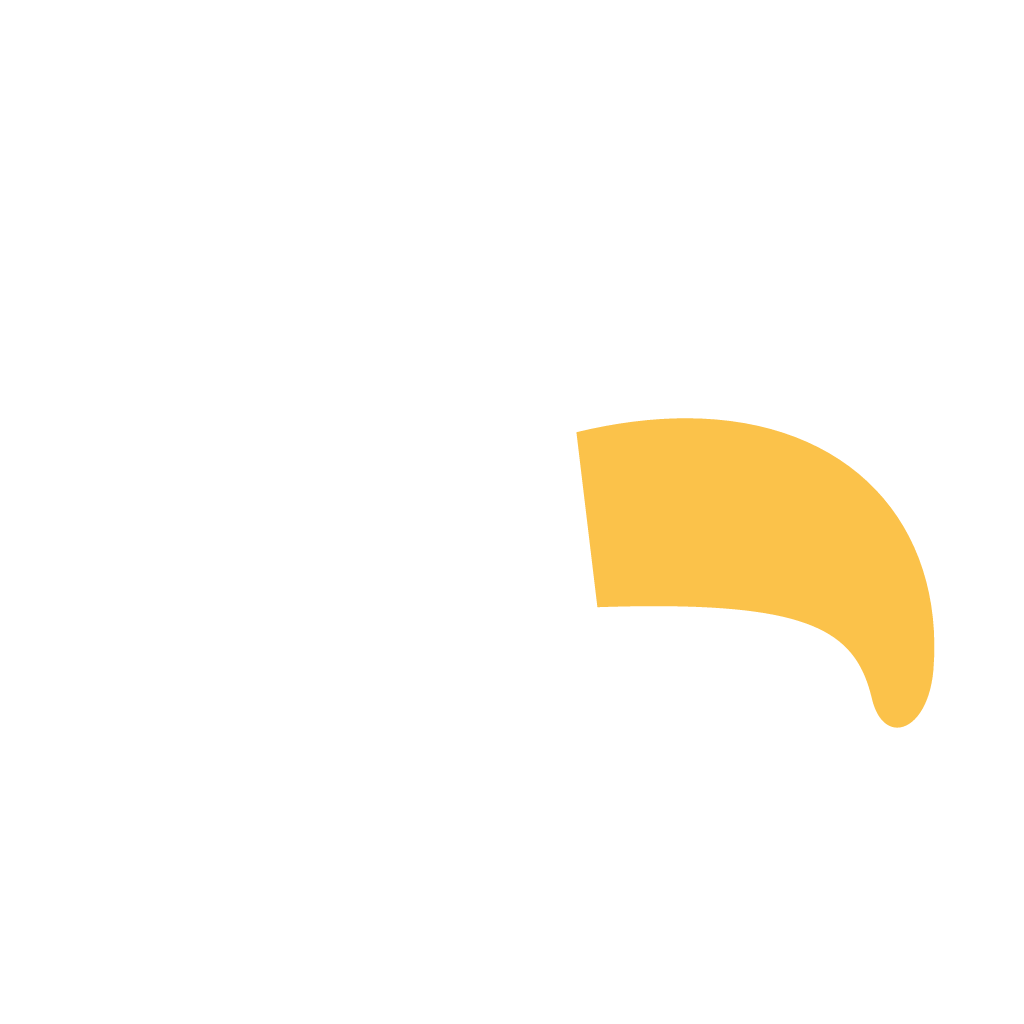
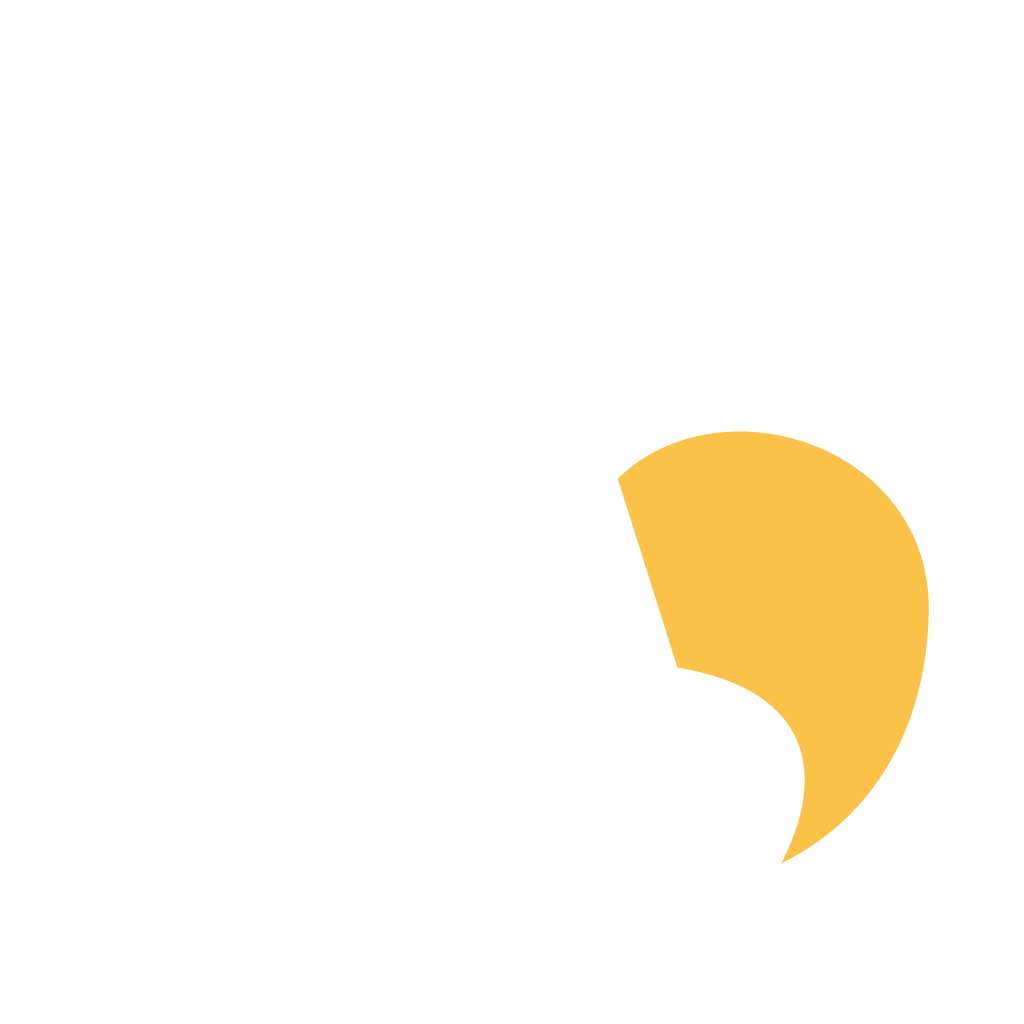
Redraw the parrot as a cockatoo with a hooked beak so it no longer reads as a crow
The long straight beak becomes a shorter, larger hook whose tip points down
over an arched lower beak; the crest is three long thin feathers; the motif
fills more of the app icon. The menu bar glyph is one solid silhouette with
a plain round eye.

diff --git a/design/logo/perroquet.py b/design/logo/perroquet.py
@@ -40,33 +40,46 @@ ICTOOL = "/Applications/Xcode.app/Contents/Applications/Icon Composer.app/Conten
 BLUE, GREEN, YELLOW, WHITE = "#2F80ED", "#3DD17A", "#FFC83D", "#FFFFFF"
 
 # The parrot is drawn in its own coordinates, then scaled and centred on the 1024 canvas.
-# MOTIF_CENTRE is the centre of the bounding box of every layer (crest, head, beaks).
-MOTIF_CENTRE = (419, 432)
-MOTIF_SCALE = 1.4
-EYE_CENTRE = (465, 448)
+# MOTIF_CENTRE is the centre of the bounding box of every layer (crest, head, beaks):
+# x 141-728, y 95-710. MOTIF_SCALE makes it about 870 px tall, filling most of the icon.
+MOTIF_CENTRE = (434.5, 402.5)
+MOTIF_SCALE = 1.42
+HEAD_CENTRE, HEAD_RADIUS = (360, 500), 210
+EYE_CENTRE = (432, 440)
 
-# Crest: one feather repeated three times. The tips sit on one arc (centred on
-# CREST_PIVOT, through the yellow tip), CREST_STEP degrees apart; each feather leans back
-# by CREST_LEAN of that angle, so the visible overlaps are about equal (132 vs 165 px).
-FEATHER = "M320 355 C305 250, 365 150, 450 155 C410 222.5, 400 300, 415 350 Z"
-FEATHER_TIP = (450, 155)
-CREST_PIVOT = (401, 399)
-CREST_STEP = -27  # degrees along the arc between two tips
-CREST_LEAN = 0.55
+# Short upper beak whose tip hooks down over the lower one: the hook is what tells a
+# parrot from a crow, whose beak is long and straight. It starts inside the head, so no
+# corner of background shows between the head and the top of the beak. The lower beak
+# fills the inside of the hook up to its tip (a gap there is too small to read), and its
+# underside arches up between the head and the tip, so the hook points down clearly.
+UPPER_BEAK = (
+    "M509 379 C582 308, 731 356, 728 474 C726 555, 689 618, 624 650 "
+    "C656 589, 647 528, 551 512 Z"
+)
+LOWER_BEAK = (
+    "M512 498 C610 490, 672 560, 662 610 C658 632, 640 648, 624 652 "
+    "C612 628, 596 612, 576 612 C552 612, 528 632, 498 652 Z"
+)
+
+# Crest of a cockatoo: one long thin feather (base at the origin, tip curling forward),
+# repeated three times. The bases sit on a circle inside the head, CREST_STEP degrees apart
+# going backwards from the top, and each feather leans back by that same angle.
+FEATHER = "M0 0 C-4 -14, 0 -30, 14 -36 C8 -26, 8 -14, 10 0 Z"
+FEATHER_SCALE = 5.95
+CREST_ROOT_RADIUS = 184
+CREST_START = -86  # degrees, the front feather, nearly straight up
+CREST_STEP = 22
 
 
 def crest() -> str:
     """Return the three overlapping crest feathers, back to front."""
-    px, py = CREST_PIVOT
-    tx, ty = FEATHER_TIP
-    radius = math.dist(CREST_PIVOT, FEATHER_TIP)
-    start = math.degrees(math.atan2(ty - py, tx - px))
+    hx, hy = HEAD_CENTRE
     paths = []
     for i, colour in enumerate((YELLOW, GREEN, BLUE)):  # back to front
-        angle = start + i * CREST_STEP
-        x = px + radius * math.cos(math.radians(angle))
-        y = py + radius * math.sin(math.radians(angle))
-        transform = f"translate({x:.2f} {y:.2f}) rotate({CREST_LEAN * i * CREST_STEP:.2f}) translate({-tx} {-ty})"
+        angle = math.radians(CREST_START - i * CREST_STEP)
+        x = hx + CREST_ROOT_RADIUS * math.cos(angle)
+        y = hy + CREST_ROOT_RADIUS * math.sin(angle)
+        transform = f"translate({x:.2f} {y:.2f}) rotate({-i * CREST_STEP}) scale({FEATHER_SCALE})"
         paths.append(f'<path d="{FEATHER}" fill="{colour}" transform="{transform}"/>')
     return "".join(paths)
 
@@ -86,12 +99,9 @@ def eye() -> str:
 # Layer name -> SVG fragment in motif coordinates.
 LAYERS = {
     "eye": eye(),
-    "head": '<circle cx="360" cy="500" r="210" fill="#E83A45"/>',
-    "upper-beak": (
-        '<path d="M465 375 C630 335, 730 420, 720 545 C716 590, 684 600, 676 565 '
-        'C664 515, 630 495, 480 500 Z" fill="#FBC24A"/>'
-    ),
-    "lower-beak": '<path d="M480 560 C610 560, 660 590, 660 640 C620 672, 560 668, 480 645 Z" fill="#E08A12"/>',
+    "head": f'<circle cx="{HEAD_CENTRE[0]}" cy="{HEAD_CENTRE[1]}" r="{HEAD_RADIUS}" fill="#E83A45"/>',
+    "upper-beak": f'<path d="{UPPER_BEAK}" fill="#FBC24A"/>',
+    "lower-beak": f'<path d="{LOWER_BEAK}" fill="#E08A12"/>',
     "crest": crest(),
 }
 
@@ -174,10 +184,10 @@ def build_icon() -> None:
     (ICON / "icon.json").write_text(json.dumps(document, indent=2) + "\n")
 
 
-# Eye hole of the menu bar glyph, smaller than the app icon's eye so it stays light at 17pt.
-MENU_BAR_EYE_RADIUS = 46
+# Eye of the menu bar glyph: a plain round hole.
+MENU_BAR_EYE_RADIUS = 52
 # Bounding box of the head, beaks and crest in motif coordinates: x, y, width, height.
-MENU_BAR_BOX = (117, 150, 604, 560)
+MENU_BAR_BOX = (139, 93, 591, 619)
 MENU_BAR_HEIGHT_PT = 17
 
 
@@ -187,7 +197,8 @@ def black(fragment: str) -> str:
 
 
 def build_menu_bar_icon() -> None:
-    """Write the menu bar template: one black silhouette with the eye as a hole, cropped to the motif."""
+    """Write the menu bar template: one black silhouette cropped to the motif, with the eye
+    punched out."""
     x, y, w, h = MENU_BAR_BOX
     eye_x, eye_y = EYE_CENTRE
     eye_hole = (
